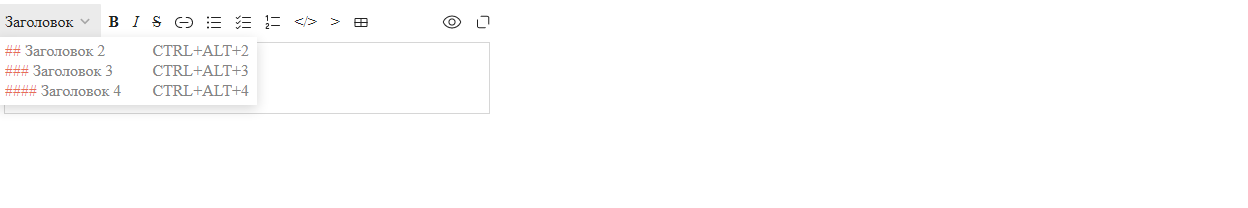
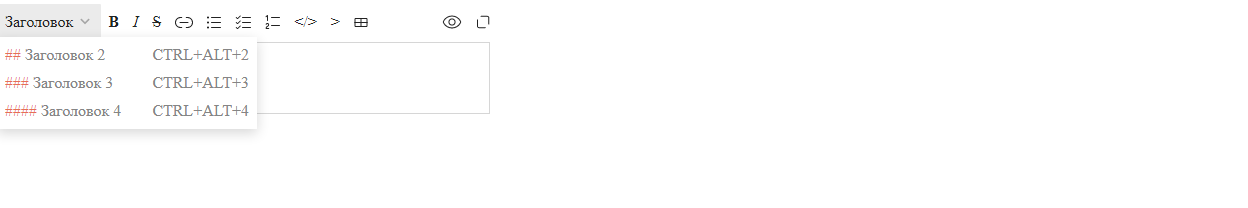
Fix styles

diff --git a/src/MarkdownIcons/Expand.tsx b/src/MarkdownIcons/Expand.tsx
@@ -4,11 +4,11 @@ export const Expand = () => (
   <svg width="14" height="14" viewBox="0 0 14 14" fill="none" xmlns="http://www.w3.org/2000/svg">
     <path
       d="M2.9851 13.1571C1.88053 13.1571 0.985101 12.2616 0.985101 11.1571L0.985102 4.87888C0.985102 4.60274 1.20896 4.37888 1.4851 4.37888C1.76124 4.37888 1.9851 4.60274 1.9851 4.87888L1.9851 11.1571C1.9851 11.7093 2.43282 12.1571 2.9851 12.1571L9.26328 12.1571C9.53942 12.1571 9.76328 12.3809 9.76328 12.6571C9.76328 12.9332 9.53942 13.1571 9.26328 13.1571L2.9851 13.1571Z"
-      fill="#222222"
+      fill="currentColor"
     />
     <path
       d="M13.2988 2.84335C13.2988 1.73878 12.4034 0.843347 11.2988 0.843347L5.02064 0.843347C4.74449 0.843347 4.52064 1.06721 4.52064 1.34335C4.52064 1.61949 4.74449 1.84335 5.02064 1.84335L11.2988 1.84335C11.8511 1.84335 12.2988 2.29106 12.2988 2.84335L12.2988 9.12152C12.2988 9.39767 12.5227 9.62152 12.7988 9.62152C13.075 9.62152 13.2988 9.39766 13.2988 9.12152L13.2988 2.84335Z"
-      fill="#222222"
+      fill="currentColor"
     />
   </svg>
 );

diff --git a/src/Markdown/Markdown.styled.ts b/src/Markdown/Markdown.styled.ts
@@ -98,8 +98,6 @@ export const MarkdownButtonIcon = styled.div`
 
 export const MarkdownDropdown = styled.div`
   button {
-    padding-top: 0;
-    padding-bottom: 0;
     font-size: ${p => p.theme.elementsFontSize};
   }
 `;
